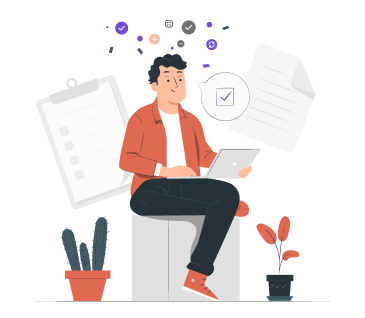
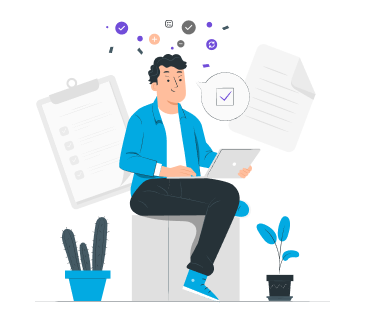
pase 2 complete

diff --git a/src/pages/protected/superadmin/createAdmin/createAdmin.scss b/src/pages/protected/superadmin/createAdmin/createAdmin.scss
@@ -17,11 +17,13 @@
   margin-bottom: 0.5rem;
 }
 @mixin form_input {
-  background: #dbd3d2;
+  background: white;
   border-radius: 10px;
   padding: 1rem;
+  outline: 1px solid #02aae2;
+
   &:focus {
-    outline: 2px solid rgba(223, 105, 81, 0.57);
+    outline: 2px solid #02aae2;
   }
   &::placeholder {
     font-family: "Inter";
@@ -143,7 +145,7 @@
       font-size: 16px;
       color: #f3f3f3;
       padding: 1rem 3rem;
-      background: #df6951;
+      background: #02aae2;
       border-radius: 10px;
     }
   }

diff --git a/src/pages/protected/user/booking/booking.scss b/src/pages/protected/user/booking/booking.scss
@@ -17,12 +17,12 @@
   margin-bottom: 0.5rem;
 }
 @mixin form_input {
-  background: #dbd3d2;
+  background: white;
   border-radius: 10px;
   padding: 1rem;
   border: 1px solid #02aae2;
   &:focus {
-    outline: 2px solid #02aae2;
+    outline: 1.5px solid #02aae2;
   }
   &::placeholder {
     font-family: "Inter";
